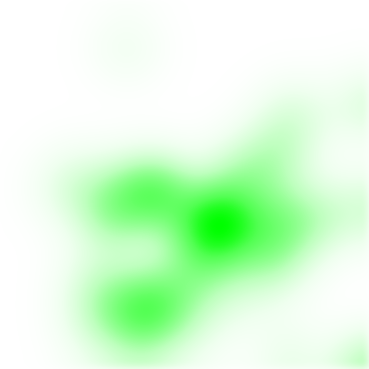
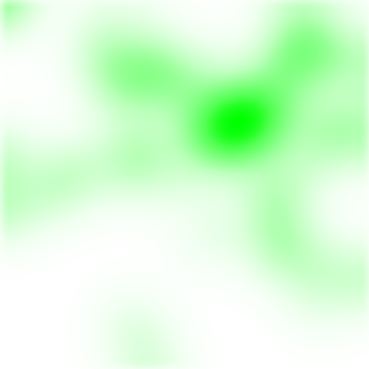
final project state
ez first place

diff --git a/BlackRealtorsLogic/src/logic.py b/BlackRealtorsLogic/src/logic.py
@@ -16,7 +16,6 @@ class ScoreMemo:
     sig = [25, 15, 5, 0]
     mapping = dict()
 
-
     @staticmethod
     def get_prob_by_category_sig(categoty, sig_id, orgs):
         if (categoty, sig_id) not in ScoreMemo.precalc:
@@ -68,6 +67,7 @@ def getScore(all_orgs):
 
     plt.axis('off')
     plt.imshow( heatmap, cmap='Greys', interpolation='spline36' )
+    plt.gca().invert_yaxis()
     plt.savefig('map.png', bbox_inches='tight', pad_inches=0)
 
     img = Image.open('map.png')
